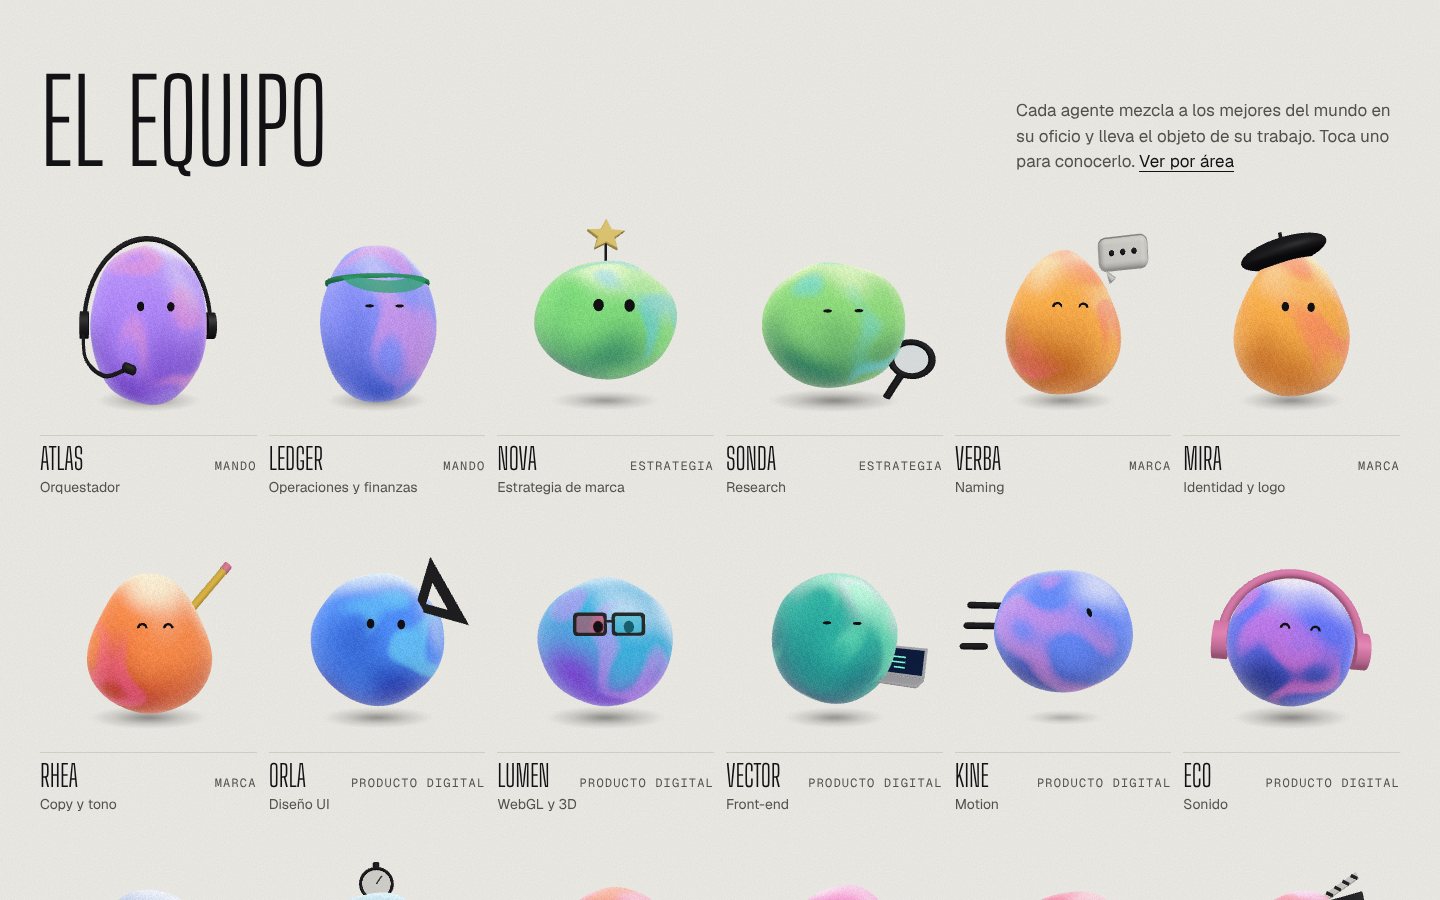
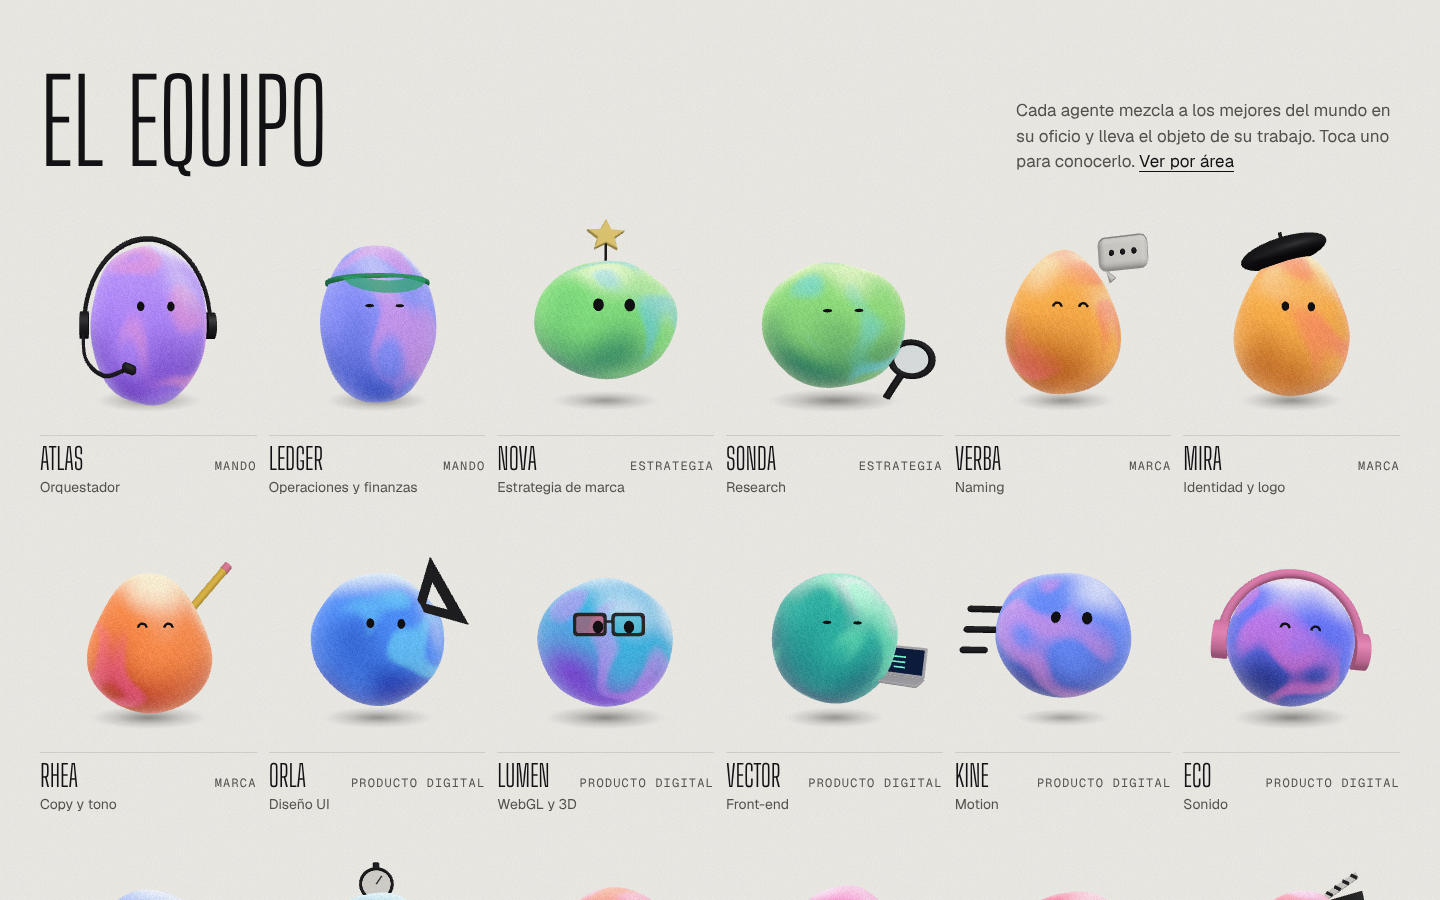
Fase 4: correcciones de la ronda 3 del jurado y resumen
Claude-Session: https://claude.ai/code/session_0193ZUHChu93UxJ1fkfLWMgi

Changed region(s): [[0.6562, 0.6222, 0.7812, 0.7778], [0.9062, 0.9956, 0.9375, 1.0], [0.4062, 0.6844, 0.4375, 0.7156]]

diff --git a/packages/agentes/src/index.ts b/packages/agentes/src/index.ts
@@ -18,7 +18,7 @@ export const AREAS: Record<AreaId, Area> = {
   marca: { id: "marca", nombre: "Marca", luz: "#fff1d6", medio: "#ff8a4c", sombra: "#c3221c", acento: "#ff5fa2" },
   producto: { id: "producto", nombre: "Producto digital", luz: "#e4f7ff", medio: "#5fb4ff", sombra: "#1636d9", acento: "#a17bff" },
   comunicacion: { id: "comunicacion", nombre: "Comunicación", luz: "#ffe7f3", medio: "#ff6fb1", sombra: "#a3105c", acento: "#ffb347" },
-  crecimiento: { id: "crecimiento", nombre: "Crecimiento", luz: "#fffadf", medio: "#ffcb3d", sombra: "#d26300", acento: "#ff6a3d" },
+  crecimiento: { id: "crecimiento", nombre: "Crecimiento", luz: "#fffbe3", medio: "#ffd43d", sombra: "#d98a00", acento: "#fff08a" },
 };
 
 /** Objeto 3D pequeño que distingue a cada agente por su oficio. */
@@ -57,7 +57,7 @@ export const AGENTES: Agente[] = [
   { id: "vector", tono: { luz: "#e3fbf6", medio: "#2fb5b0", sombra: "#0b4f7a", acento: "#7cffd6" }, nombre: "Vector", area: "producto", rol: "Front-end", caracter: "Práctico, cero drama.", adn: "Código de Active Theory + obsesión por rendimiento de Vercel", superpoder: "Webs que cargan en menos de un segundo.", frase: "Bonito y rápido, o no sale.", prop: "laptop", propNombre: "Laptop" },
   { id: "kine", tono: { luz: "#eef0ff", medio: "#6a7dff", sombra: "#2a1f9c", acento: "#ff9ad5" }, nombre: "Kine", area: "producto", rol: "Motion", caracter: "Inquieto. Nunca está quieto.", adn: "Buck + ManvsMachine", superpoder: "Le da vida a cualquier cosa.", frase: "Todo se mueve por una razón.", prop: "estela", propNombre: "Estela de movimiento" },
   { id: "eco", tono: { luz: "#f3ecff", medio: "#8a6bff", sombra: "#3a1f8f", acento: "#ff7ab8" }, nombre: "Eco", area: "producto", rol: "Sonido", caracter: "Escucha antes de hablar.", adn: "Antfood + diseño sonoro de videojuegos", superpoder: "Marcas que se reconocen con los ojos cerrados.", frase: "El silencio también es un sonido.", prop: "audifonos", propNombre: "Audífonos" },
-  { id: "prisma", tono: { luz: "#f2f6ff", medio: "#9fb4d9", sombra: "#2c3e6b", acento: "#ffffff" }, nombre: "Prisma", area: "producto", rol: "Calidad y SEO", caracter: "La más estricta, y la más querida.", adn: "Auditor de rendimiento + estándares de accesibilidad", superpoder: "Encuentra el error antes que el cliente.", frase: "Si no funciona para todos, no funciona.", prop: "portapapeles", propNombre: "Portapapeles" },
+  { id: "prisma", tono: { luz: "#eef3ff", medio: "#7aa2ff", sombra: "#2342a8", acento: "#c9f2ff" }, nombre: "Prisma", area: "producto", rol: "Calidad y SEO", caracter: "La más estricta, y la más querida.", adn: "Auditor de rendimiento + estándares de accesibilidad", superpoder: "Encuentra el error antes que el cliente.", frase: "Si no funciona para todos, no funciona.", prop: "portapapeles", propNombre: "Portapapeles" },
   { id: "tempo", tono: { luz: "#e8f7ff", medio: "#56a8d8", sombra: "#0f3d66", acento: "#ffd36e" }, nombre: "Tempo", area: "producto", rol: "Producción", caracter: "Ordenado y puntual.", adn: "Productor senior de estudio digital", superpoder: "Convierte el caos en calendario.", frase: "Una fecha es una promesa.", prop: "cronometro", propNombre: "Cronómetro" },
   { id: "faro", nombre: "Faro", area: "comunicacion", rol: "Contenido", caracter: "Estratégico. Piensa en series.", adn: "Mother London + el sistema de series de @jaywrkr", superpoder: "Sabe qué publicar el próximo martes.", frase: "La constancia le gana al talento.", prop: "faro", propNombre: "Linterna de faro" },
   { id: "chispa", nombre: "Chispa", area: "comunicacion", rol: "Community", caracter: "Rápida, graciosa, cercana.", adn: "Humor de Duolingo + cercanía de Glossier", superpoder: "Responde como persona, no como marca.", frase: "¿Cómo sería esto más divertido?", prop: "telefono", propNombre: "Teléfono" },

diff --git a/apps/web/components/escena/Agente3D.tsx b/apps/web/components/escena/Agente3D.tsx
@@ -150,7 +150,7 @@ export function Agente3D({ agente, apagado = false, conProp = true, escala = 1, 
       const s = escala * (1 - e.dim * 0.22) * (1 + e.hover * 0.06) * Math.max(0.001, entrada);
       grupo.current.scale.setScalar(s);
       grupo.current.position.set(0, y * escala, 0);
-      grupo.current.rotation.y = THREE.MathUtils.damp(grupo.current.rotation.y, mirada.x * 0.4 * (1 - e.dim), 4, dt);
+      grupo.current.rotation.y = THREE.MathUtils.damp(grupo.current.rotation.y, THREE.MathUtils.clamp(mirada.x, -1, 1) * 0.36 * (1 - e.dim), 4, dt);
       grupo.current.rotation.x = THREE.MathUtils.damp(grupo.current.rotation.x, -mirada.y * 0.24 * (1 - e.dim), 4, dt);
       grupo.current.rotation.z = Math.sin(t * car.ritmo * 0.8) * car.balanceo;
     }
@@ -192,7 +192,7 @@ export function Agente3D({ agente, apagado = false, conProp = true, escala = 1, 
         <group ref={ojos} position={[0, 0.16 * forma.alto, 0]}>
           {[-0.2, 0.2].map((x) => {
             const f = factorForma(silueta, 0.17);
-            const z = Math.sqrt(Math.max(0, 1 - x * x - 0.03)) * forma.ancho * f + 0.012;
+            const z = Math.sqrt(Math.max(0, 1 - x * x - 0.03)) * forma.ancho * f + 0.045;
             const px = x * f + (silueta === 2 ? 0.035 : 0);
             const color = <meshBasicMaterial color={apagado ? "#5a5a5a" : "#111114"} />;
             if (tipoOjo === "media")

diff --git a/apps/web/app/sala/Sala.tsx b/apps/web/app/sala/Sala.tsx
@@ -59,10 +59,11 @@ export function Sala() {
             <p className={`${etiqueta} hidden sm:block`}>{SERVICIO[f.n].dura}</p>
           </div>
           <ul key={fase} className="mt-4 grid grid-cols-2 gap-3 sm:grid-cols-3">
-            {activos.map((id) => {
+            {activos.map((id, i) => {
               const a = agentePorId(id)!;
+              const solo = activos.length % 2 === 1 && i === 0;
               return (
-                <li key={id}>
+                <li key={id} className={solo ? "col-span-2 mx-auto w-2/3 sm:col-span-1 sm:mx-0 sm:w-auto" : undefined}>
                   <button
                     onClick={() => setSel(id)}
                     aria-pressed={id === elegido}

diff --git a/apps/web/app/globals.css b/apps/web/app/globals.css
@@ -34,3 +34,5 @@ html[data-noche="1"] body > header, html[data-noche="1"] .hero { background: var
 html[data-noche="1"] body > header a, html[data-noche="1"] body > header button { color: var(--color-hueso); }
 html[data-noche="1"] .hero .border-tinta { border-color: var(--color-hueso); }
 html[data-noche="1"] .hero .text-gris { color: #b9b6ae; }
+html[data-noche="1"] .hero::after { content: ""; position: absolute; left: 0; right: 0; bottom: -160px; height: 160px; background: linear-gradient(var(--color-noche), var(--color-hueso)); pointer-events: none; }
+html[data-noche="1"] .hero + section { padding-top: 12rem; }

diff --git a/apps/web/components/escena/Prop.tsx b/apps/web/components/escena/Prop.tsx
@@ -389,7 +389,7 @@ export function Prop({ tipo }: { tipo: PropId }) {
       );
     case "faro":
       return (
-        <group position={[0.98, 0.35, -0.05]} scale={0.9}>
+        <group position={[0.92, 0.1, 0.55]} scale={1.05}>
           {[0, 1, 2].map((i) => (
             <mesh key={i} position={[0, -0.3 + i * 0.2, 0]}>
               <cylinderGeometry args={[0.13 - i * 0.012, 0.145 - i * 0.012, 0.2, 20]} />

diff --git a/docs/jurado/resumen.md b/docs/jurado/resumen.md
@@ -1,0 +1,25 @@
+# Jurado · resumen de la fase 4
+
+Tres rondas de un jurado independiente con criterios de Awwwards (Diseño 40 %, Usabilidad 30 %, Creatividad 20 %, Contenido 10 %), a partir de capturas.
+
+| Ronda | Diseño | Usabilidad | Creatividad | Contenido | Ponderada |
+|---|---|---|---|---|---|
+| 1 (fase 3) | 7,0 | 6,5 | 7,5 | 6,0 | **6,85** |
+| 2 | 7,4 | 7,6 | 7,8 | 6,2 | **7,42** |
+| 3 | 7,6 | 7,8 | 8,0 | 6,3 | **7,61** |
+
+Veredicto de la ronda 3: en el umbral de Site of the Day. Para pasar con margen faltan contenido real y nombre.
+
+Después de la ronda 3 se corrigieron también: agentes que se veían con un solo ojo, el faro de Faro tapado, el tono lavado de Prisma, el amarillo de Crecimiento, Sonda sola en la Sala móvil y el corte seco del modo noche. No se volvió a evaluar.
+
+## Lo que falta y no depende del código
+
+1. **Portafolio:** 2–3 proyectos previos de Jay y Luna, con imagen a sangre y un resultado concreto.
+2. **Personas:** retratos de Jay y Luna, y fotos reales de shootings y eventos para "También juntamos gente".
+3. **Nombre y logo:** hoy la marca es "ANONYMO*" en mono pequeño; falta logotipo, pantalla de carga y favicon.
+
+## Automático
+
+axe: 0 fallas en las 8 páginas. Lighthouse (escritorio): accesibilidad, buenas prácticas y SEO en 100. Rendimiento sin medir de forma válida (aquí no hay GPU); pendiente en un enlace de prueba con celular real.
+
+Para repetirlo: `npm run build && npm run start -w @anonymo/web -- -p 3311` y luego `npm run jurado -w @anonymo/web -- http://localhost:3311`.
